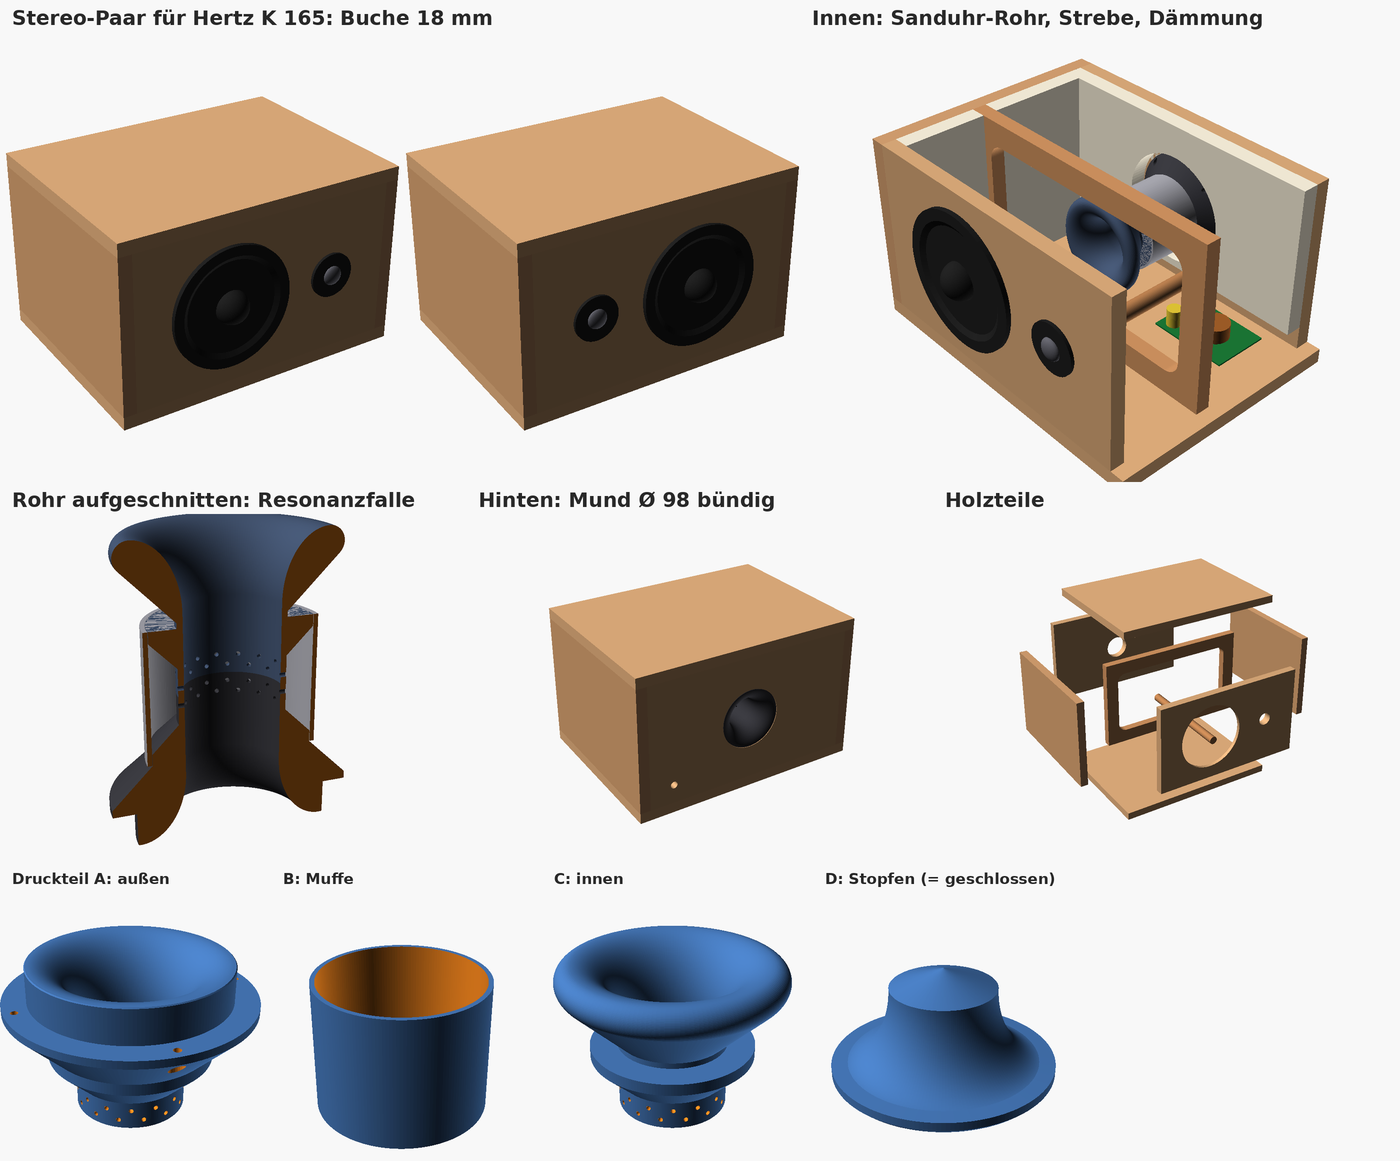
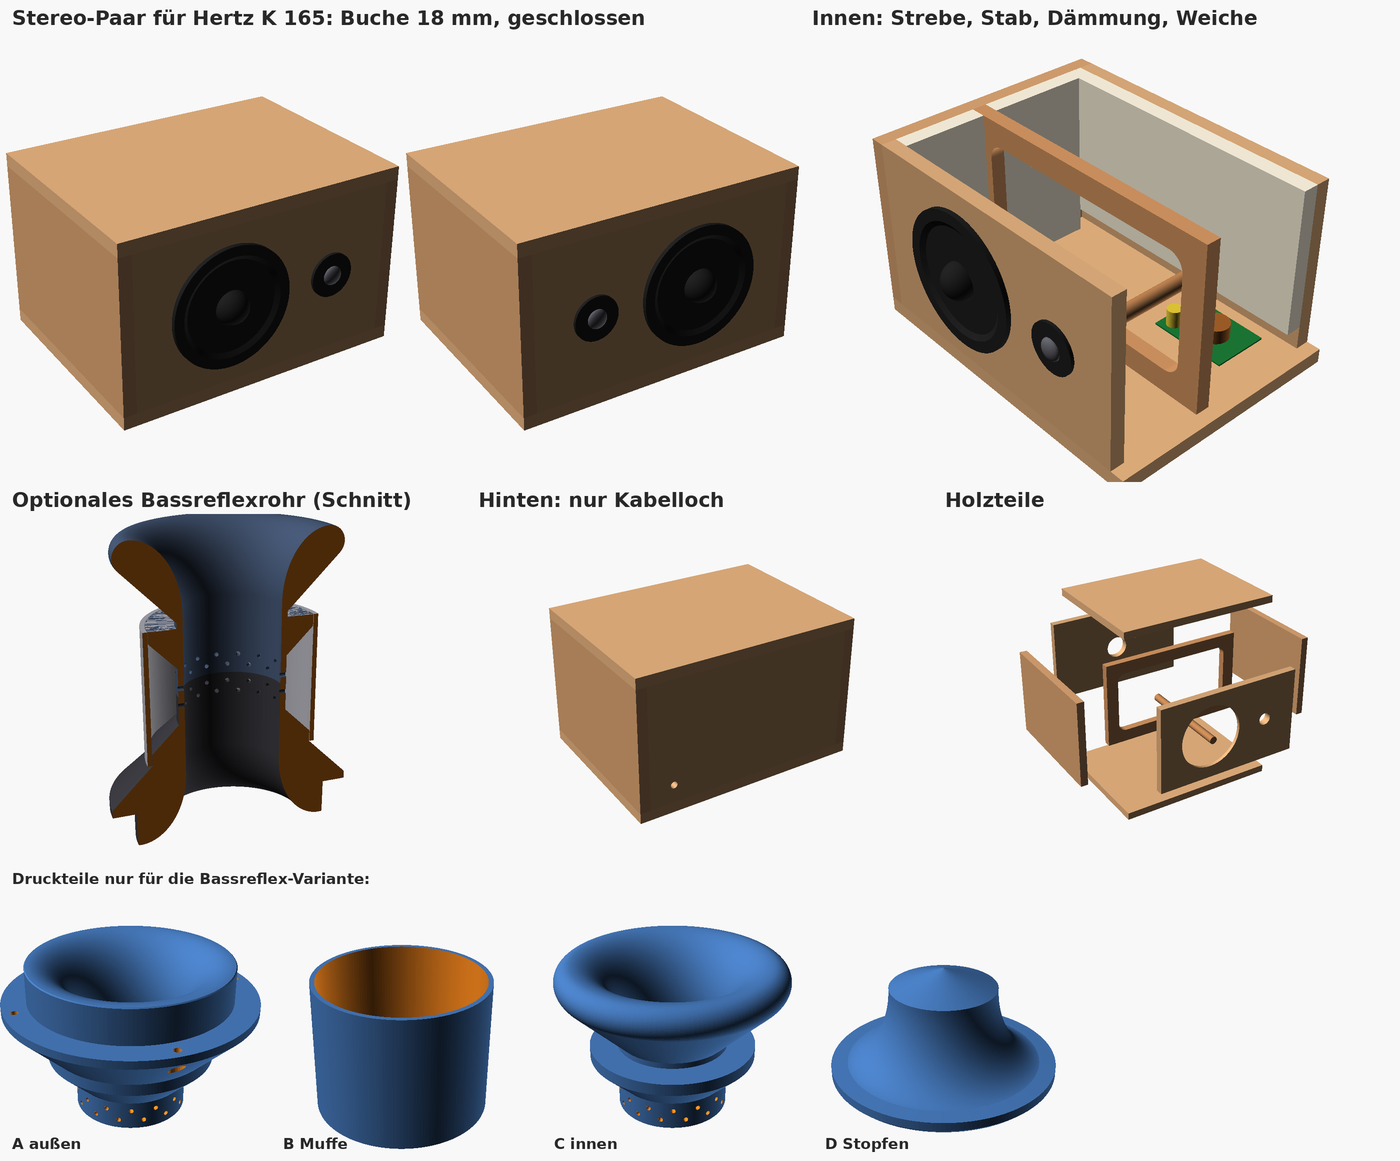
Add step-by-step build guide; default to the sealed build
- BAUPLAN.md: instruction-style guide from shopping list to
  listening test, written for the sealed Hertz K 165 build with
  the owner's damping material
- bauplan.py/bauplan.png: dimensioned workshop drawing (front,
  rear, top section, damping scheme; left box, right mirrored)
- lautsprecherbox.scad: new `bauart` switch, default "geschlossen"
  (no 102 mm rear hole, no port in preview, full rear damping);
  "bassreflex" restores the engineered port
- README: sealed build is the default, port section kept as the
  documented option; placement and leak-test notes updated

Claude-Session: https://claude.ai/code/session_01BoBJRLv7V6suyTzUotHVaK

diff --git a/lautsprecherbox/bauplan.py b/lautsprecherbox/bauplan.py
@@ -1,0 +1,77 @@
+#!/usr/bin/env python3
+"""Erzeugt bauplan.png: bemasste Werkstattzeichnung der Box (Box links;
+rechte Box spiegelbildlich). Alle Masse in mm. Laeuft mit matplotlib."""
+import matplotlib
+matplotlib.use("Agg")
+import matplotlib.pyplot as plt
+from matplotlib.patches import Circle, Rectangle
+
+HOLZ = "#e8d6b8"; KANTE = "#6b5236"; MASS = "#1a4a7a"; ROT = "#b03030"
+
+def dim_h(ax, x0, x1, y, text, oben=True):
+    ax.annotate("", (x0, y), (x1, y), arrowprops=dict(arrowstyle="<->", color=MASS, lw=1.1))
+    ax.text((x0 + x1) / 2, y + (4 if oben else -11), text, ha="center", color=MASS, fontsize=9)
+
+def dim_v(ax, x, y0, y1, text):
+    ax.annotate("", (x, y0), (x, y1), arrowprops=dict(arrowstyle="<->", color=MASS, lw=1.1))
+    ax.text(x + 5, (y0 + y1) / 2, text, va="center", color=MASS, fontsize=9, rotation=90)
+
+def platte(ax, b, h, titel):
+    ax.add_patch(Rectangle((0, 0), b, h, facecolor=HOLZ, edgecolor=KANTE, lw=2))
+    ax.set_title(titel, fontsize=11, weight="bold")
+    ax.set_aspect("equal"); ax.set_xlim(-45, b + 45); ax.set_ylim(-45, h + 60)
+    ax.axis("off")
+
+fig, axs = plt.subplots(2, 2, figsize=(13.5, 9.2), dpi=140)
+fig.suptitle("Bauplan Stereo-Lautsprecher (Hertz K 165, geschlossen) – Box LINKS, Maße in mm.  "
+             "Rechte Box: alle x-Maße spiegeln (x' = 400 − x)", fontsize=12.5, weight="bold")
+
+# --- Front (von aussen) ---
+ax = axs[0][0]; platte(ax, 400, 250, "FRONT von außen (Platte 364 × 214 sitzt zwischen den Wänden)")
+for d, x, name in ((116, 150, "Tieftöner Ø 116\n+ 45°-Fase innen"), (30.2, 300, "Hochtöner Ø 30,2\n(am Becher prüfen!)")):
+    ax.add_patch(Circle((x, 125), d / 2, fill=False, color=KANTE, lw=1.8))
+    ax.plot(x, 125, "+", color=KANTE, ms=10)
+    ax.text(x, 125 - d / 2 - 26, name, ha="center", fontsize=8.5, color=KANTE)
+dim_h(ax, 0, 150, 262, "150"); dim_h(ax, 0, 300, 285, "300")
+dim_v(ax, -28, 0, 125, "125"); dim_h(ax, 0, 400, -30, "400", oben=False)
+
+# --- Rueckwand (von hinten) ---
+ax = axs[0][1]; platte(ax, 400, 250, "RÜCKWAND von hinten gesehen")
+ax.add_patch(Circle((60, 50), 6, fill=False, color=KANTE, lw=1.8)); ax.plot(60, 50, "+", color=KANTE, ms=8)
+ax.text(60, 70, "Kabel Ø 12\n(M12-Verschraubung)", ha="center", fontsize=8.5, color=KANTE)
+ax.add_patch(Circle((200, 125), 51, fill=False, color=ROT, lw=1.3, linestyle="--"))
+ax.text(200, 186, "Ø 102 NICHT bohren!\n(nur für die Bassreflex-Variante)", ha="center", fontsize=8.5, color=ROT)
+dim_h(ax, 0, 60, 262, "60"); dim_v(ax, -28, 0, 50, "50"); dim_h(ax, 0, 400, -30, "400", oben=False)
+
+# --- Draufsicht (Schnitt) ---
+ax = axs[1][0]; platte(ax, 400, 300, "DRAUFSICHT, aufgeschnitten (Front unten)")
+ax.add_patch(Rectangle((18, 18), 364, 264, facecolor="white", edgecolor="none"))
+for r in ((0, 0, 400, 18), (0, 282, 400, 18), (0, 0, 18, 300), (382, 0, 18, 300)):
+    ax.add_patch(Rectangle((r[0], r[1]), r[2], r[3], facecolor=HOLZ, edgecolor=KANTE, lw=1.2))
+ax.add_patch(Rectangle((18, 121), 364, 18, facecolor="#d9b98a", edgecolor=KANTE, lw=1.2, hatch="//"))
+ax.text(200, 148, "Fensterstrebe (Fenster 304 × 154, Ecken R 20)", ha="center", va="center", fontsize=8.5)
+ax.add_patch(Rectangle((245, 18), 20, 264, facecolor="#caa06a", edgecolor=KANTE, lw=1))
+ax.text(255, 230, "Rundstab Ø 20\n(x = 255, z = 70)", ha="center", fontsize=8, rotation=90)
+ax.plot([92, 208], [18, 18], color=ROT, lw=3)
+ax.text(150, 30, "Tieftöner", ha="center", fontsize=8.5, color=ROT)
+dim_v(ax, 428, 0, 121, "121 bis Strebe")
+ax.annotate("", (-28, 0), (-28, 300), arrowprops=dict(arrowstyle="<->", color=MASS, lw=1.1))
+ax.text(-36, 150, "300", va="center", color=MASS, fontsize=9, rotation=90)
+ax.text(200, -32, "Strebe: Vorderkante 121 mm hinter der Außenfront", ha="center", fontsize=9, color=MASS)
+
+# --- Daemmschema (Seitenschnitt) ---
+ax = axs[1][1]; platte(ax, 300, 250, "DÄMMUNG (Seitenschnitt, Front links) – geschlossene Box")
+ax.add_patch(Rectangle((18, 18), 264, 214, facecolor="white", edgecolor="none"))
+for r in ((0, 0, 300, 18), (0, 232, 300, 18), (0, 0, 18, 250), (282, 0, 18, 250)):
+    ax.add_patch(Rectangle((r[0], r[1]), r[2], r[3], facecolor=HOLZ, edgecolor=KANTE, lw=1.2))
+ax.add_patch(Rectangle((121, 18), 18, 214, facecolor="#d9b98a", edgecolor=KANTE, lw=1.2, hatch="//"))
+for r in ((252, 18, 30, 214), (18, 202, 103, 30), (139, 202, 113, 30)):   # Rueckwand + Deckel
+    ax.add_patch(Rectangle((r[0], r[1]), r[2], r[3], facecolor="#f3ead2", edgecolor="#b9a97e", lw=1, hatch="..."))
+ax.add_patch(Rectangle((139, 18), 113, 184, facecolor="none", edgecolor="#b9a97e", lw=1.2, linestyle=":"))
+ax.text(195, 110, "hintere Kammer\nlocker füllen", ha="center", fontsize=8.5, color="#7a6a40")
+ax.text(76, 110, "vordere Kammer:\nWände 2–3 cm belegen,\n≥ 3 cm Luft hinter\nder Membran", ha="center", fontsize=8.5, color="#7a6a40")
+ax.plot([18, 18], [67, 183], color=ROT, lw=3)
+ax.text(28, 125, "Chassis", fontsize=8.5, color=ROT, rotation=90, va="center")
+fig.tight_layout(rect=(0, 0, 1, 0.96))
+fig.savefig("bauplan.png")
+print("bauplan.png geschrieben")

diff --git a/lautsprecherbox/BAUPLAN.md b/lautsprecherbox/BAUPLAN.md
@@ -1,0 +1,128 @@
+# Bauanleitung – Schritt für Schritt
+
+Gebaut werden **2 geschlossene Boxen** (Stereo-Paar, spiegelbildlich) aus Buche 18 mm,
+40 × 30 × 25 cm, für das **Hertz K 165 Fan Edition**. Die Maße stehen im **[Bauplan](bauplan.png)**,
+die 3D-Ansicht in der [vorschau.png](vorschau.png). Rechne mit einem Wochenende plus Öl-Trockenzeit.
+
+![Bauplan](bauplan.png)
+
+## 0. Das brauchst du
+
+**Material** (für beide Boxen):
+
+- [ ] Buche-Multiplex 18 mm, ca. 1,2 m² – Zuschnitt siehe Schritt 1
+- [ ] Rundstab Buche Ø 20 mm, mind. 60 cm (2 × 264 mm)
+- [ ] Holzleim wasserfest (D3), Kartusche Maler-Acryl
+- [ ] Spax 4 × 50 (Gehäuse, ~30 Stk.) und 4 × 25 (Chassis, 16 Stk.), 3-mm-Vorbohrer, Senker
+- [ ] 2 × Kabelverschraubung M12 + Lautsprecherkabel 2 × 1,5 mm²
+- [x] **Dämmwolle – hast du schon** (2 Boxen brauchen zusammen grob 150–200 g)
+- [ ] Dichtband (Moosgummi, 10 × 3 mm) für die Chassis
+- [ ] Hartwachsöl oder Leinölfirnis, Schleifpapier 120/180/240
+- [ ] 8 Filz- oder Gummifüße
+- [x] Hertz K 165 Fan Edition (Tieftöner, Hochtöner, Weichen)
+
+**Werkzeug:** Stichsäge (feines Holzblatt), Bohrmaschine, Forstnerbohrer 20 und 30 mm,
+12-mm-Holzbohrer, Raspel/Schleifrolle, 4–6 Schraubzwingen, Zollstock + Zirkel, Bleistift.
+
+## 1. Zuschnitt besorgen
+
+Im Baumarkt oder Holzhandel sägen lassen (genauer als von Hand), **Kanten rechtwinklig**:
+
+| Stück | Anzahl | Maß (mm) |
+|---|---|---|
+| Deckel / Boden | 4 | 400 × 300 |
+| Seitenwände | 4 | 300 × 214 |
+| Front / Rückwand / Strebe | 6 | 364 × 214 |
+| Rundstab Ø 20 | 2 | 264 lang |
+
+Zu Hause alle Teile mit Bleistift beschriften: **L** oder **R** plus Name (z. B. „L-Front“).
+
+## 2. Anzeichnen
+
+Alle Positionen aus dem [Bauplan](bauplan.png) übertragen. **Wichtig:** Die Maße gelten für die
+**linke** Box – bei der rechten Box alle x-Maße spiegeln (x′ = 400 − x), damit die Hochtöner
+nachher **innen** sitzen. Bohrungszentren körnen (Nagel ansetzen, leicht schlagen).
+
+## 3. Sägen und Bohren (vor dem Verleimen!)
+
+1. **Tieftöner-Ausschnitt Ø 116** (2 × Front): Loch anzeichnen, innen ein 10-mm-Startloch bohren,
+   mit der Stichsäge knapp **innerhalb** der Linie sägen, mit Raspel bis zur Linie. Dann die
+   **45°-Fase** auf der **Innenseite**: mit Raspel oder Fräser die hintere Lochkante rundum ca.
+   10 mm brechen, damit die Membran nach hinten frei atmet.
+   ⚠ Vorher die Schablone aus dem K-165-Karton auflegen – das Chassis muss stramm, aber ohne
+   Gewalt hineingehen.
+2. **Hochtöner Ø 30,2** (2 × Front): Forstner 30 mm bohren, mit Schleifpapier auf Maß weiten.
+   ⚠ Vorher am mitgelieferten Einbaubecher messen.
+3. **Kabelloch Ø 12** (2 × Rückwand): von außen bohren, Position siehe Bauplan (gespiegelt!).
+   **Kein 102-mm-Loch bohren** – die Box bleibt geschlossen.
+4. **Strebenfenster 304 × 154** (2 × Strebe): In jede Ecke ein 40-mm-Loch (Forstner oder
+   Lochsäge), dazwischen mit der Stichsäge gerade sägen, Kanten mit Raspel runden.
+5. **Stab-Markierung**: Position des Rundstabs (x = 255, z = 70, gespiegelt für R) auf den
+   **Innenseiten** von Front und Rückwand anzeichnen.
+
+## 4. Probelauf ohne Leim
+
+Jede Box einmal trocken zusammenstellen (Zwingen): Boden, Seiten, Front, Rückwand, Strebe.
+Prüfen: Alles bündig? Chassis passt? Strebe sitzt 121 mm hinter der Front? Erst weiter, wenn ja.
+
+## 5. Verleimen
+
+Immer: Leim auf beide Flächen, zusammenpressen (Zwingen oder vorgebohrte Spax 4 × 50,
+mind. 3 cm vom Rand), austretenden Leim feucht abwischen, **pro Fuge 30–60 min** gepresst lassen.
+
+1. **Strebe auf den Boden** leimen: Vorderkante 121 mm hinter der Boden-Vorderkante, seitlich 18 mm Abstand (dort kommen die Seiten hin).
+2. **Beide Seiten** an Boden + Strebe.
+3. **Rundstab an die Rückwand**: Stabende auf die Markierung leimen und von außen mit einer Spax 4 × 50 durch die Rückwand sichern (vorbohren). **Kabelverschraubung M12** jetzt einschrauben.
+4. **Rückwand** einsetzen (an Boden, Seiten, Strebe).
+5. **Deckel** auflegen und verleimen – auch auf Strebe und Stab… **Stopp: erst Schritt 6 lesen!** Wer innen bequem arbeiten will, lässt den Deckel noch ab und leimt ihn als letztes Holzteil vor der Front auf.
+
+## 6. Innen abdichten
+
+Alle Innenfugen mit **Acryl** ausziehen (Finger glätten). Geschlossene Boxen leben von
+Luftdichtheit – jede undichte Fuge kostet Bass und zischt.
+
+## 7. Weiche und Verkabelung
+
+1. Die **Hertz-Weiche** auf den Boden schrauben: hinten, nahe der Kabelverschraubung (nicht nur kleben – sie darf nie klappern).
+2. Lautsprecherkabel durch die M12 führen, Verschraubung festziehen (zugdicht = luftdicht).
+3. Kabel an die Weiche, von dort je ein Paar zur Tieftöner- und zur Hochtöner-Öffnung, **15 cm Überlänge** lassen. Kabel alle 10 cm mit Klebepads oder Tackerschlaufe festlegen.
+4. **Polung notieren**: plus = markierte Ader. Beide Boxen exakt gleich!
+
+## 8. Dämmen (dein Dämmmaterial)
+
+Wie im Bauplan rechts unten:
+
+- **Hintere Kammer** (zwischen Strebe und Rückwand): Wände mit 2–3 cm belegen (Sprühkleber
+  oder Tacker), den Rest **locker** füllen – zusammengedrückt wirkt Wolle nicht.
+- **Vordere Kammer**: Deckel, Boden und beide Seitenflächen mit 2–3 cm belegen.
+  **Mindestens 3 cm Luft hinter der Tieftöner-Membran freihalten.**
+- Nichts darf die Membranrückseite oder die Weiche berühren können.
+
+## 9. Front aufleimen
+
+Front einsetzen (Stabende bekommt Leim und drückt gegen die Front), verpressen, Fuge innen
+soweit erreichbar durch die Chassis-Öffnungen mit Acryl nachziehen.
+
+## 10. Schleifen und Ölen
+
+Kanten mit R 2–3 mm brechen, 120 → 180 → 240 schleifen, entstauben. 2–3 × dünn ölen
+(zwischendurch trocknen lassen, mit 240 zwischenschleifen). Buche wird warm honigfarben.
+Füße unten ankleben/anschrauben.
+
+## 11. Chassis einbauen
+
+1. **Dichtband** auf die Auflageringe von Tief- und Hochtöner kleben.
+2. Kabel anschließen (Polung!), Chassis einsetzen, mit Spax 4 × 25 **über Kreuz** anziehen (vorbohren, nicht überdrehen).
+3. **Dichtheitstest:** Tieftöner-Membran langsam und sanft mit beiden Händen eindrücken und halten – der Gegendruck muss stehen bleiben und die Membran nur ganz langsam zurückkriechen. Fällt der Druck sofort ab: Leck suchen (Fugen, M12, Chassisrand).
+
+## 12. Aufstellen und hören
+
+Hochtöner auf Ohrhöhe und **innen** (zur Mitte), Boxen leicht auf den Hörplatz eingedreht,
+Wandabstand unkritisch (geschlossene Box!). Erst leise testen: Kommt der Bass aus beiden
+Boxen gleich stark? Falls dünn/leise im Bass → eine Box ist verpolt.
+
+---
+
+**Später auf Bassreflex umrüsten?** (nur sinnvoll mit einem Hifi-Tieftöner, Qts ≤ 0,45):
+In `lautsprecherbox.scad` `bauart = "bassreflex"` setzen, Ø 102 mittig in die Rückwand bohren,
+die Teile `rohr_aussen/muffe/innen.stl` drucken und einbauen – Details in der [README](README.md).

diff --git a/lautsprecherbox/README.md b/lautsprecherbox/README.md
@@ -14,7 +14,8 @@ und wenig Eigenresonanz ausgelegt ist.
 | **Außenmaße** | 40 cm breit × 30 cm tief × 25 cm hoch |
 | **Innenvolumen** | 20,6 L brutto, **ca. 18,5 L netto** |
 | **Chassis** | **Hertz K 165 Fan Edition**: Tieftöner 165 mm (Aufnahme 116, Tiefe 45 mm) + 24-mm-Hochtöner, 4 Ω, 50 W RMS / 300 W Spitze, 92 dB, Weiche (6 dB/Okt.) liegt bei |
-| **Betrieb mit dem K 165** | **geschlossen**, mit gedrucktem Stopfen D im Rohr (Begründung unten) |
+| **Betrieb mit dem K 165** | **geschlossen** – Rückwand ohne Rohrloch (`bauart = "geschlossen"`, Standard) |
+| **Bauanleitung** | **Schritt für Schritt: [BAUPLAN.md](BAUPLAN.md)** mit bemaßter Zeichnung [bauplan.png](bauplan.png) |
 | **Bassreflex** | **Sanduhr-Rohr** mittig in der Rückwand: Engstelle Ø 50, Münder Ø 98, außen bündig, **44,7 Hz** (Strömungsrechnung) |
 | **Deckel** | geschlossen, ohne Ausschnitt |
 | **Rückwand** | Kabeldurchführung Ø 12 mm (für eine M12-Kabelverschraubung) |
@@ -101,11 +102,12 @@ würde das 45-Hz-Rohr kaum Tiefbass bringen und den Oberbass unpräzise machen. 
 passen die 17,8 L dagegen sehr gut: Einbaugüte um 0,75–0,85, untere Grenze um 80–90 Hz,
 straffer Bass – tiefer kann dieses Chassis auch mit Rohr nicht sauber.
 
-Darum **Druckteil D, der Stopfen** (`rohr_stopfen.stl`): Er folgt der gerechneten Trichterkontur
-mit 0,6 mm Spiel. Mit 1–2 Lagen Filz- oder Moosgummiband umwickelt von außen ins Rohr drücken –
-die überstehende Deckplatte (Ø 104) ist der Griff. Rohr trotzdem einbauen: Du kannst beide
-Varianten anhören, und für einen späteren Hifi-Tieftöner mit Qts ≤ 0,45 ziehst du einfach den
-Stopfen.
+Darum ist im Modell jetzt `bauart = "geschlossen"` der Standard: Die Rückwand bekommt
+**kein** 102-mm-Loch, gedruckt werden muss nichts, und die Dämmung darf die Rückwand komplett
+bedecken. Der gesamte Rohr-Abschnitt unten bleibt für die Bassreflex-Variante erhalten
+(`bauart = "bassreflex"`), z. B. für einen späteren Hifi-Tieftöner mit Qts ≤ 0,45. Wer dann
+beide Varianten vergleichen will, druckt zusätzlich den Stopfen D (`rohr_stopfen.stl`):
+mit Filzband umwickelt verschließt er das Rohr, und die Box läuft wieder geschlossen.
 
 ## Das Bassreflexrohr: strömungsmechanisch ausgelegt
 
@@ -184,9 +186,9 @@ Ausgelegt wird es vom Skript `rohr_aerodynamik.py`:
 8. **Rohr** einbauen wie oben beschrieben (Teil A von innen, Wolle, Muffe, Teil C).
 9. **Ölen** (Hartwachsöl oder Leinölfirnis). Buche wird dadurch warm-honigfarben und dunkelt mit der Zeit nach. Unten Filz- oder Gummifüße anbringen.
 10. **Chassis** mit Dichtband einsetzen und mit Spax 4 × 25 festschrauben (vorbohren). Buche hält Schrauben sehr gut.
-11. **Dichtigkeitstest:** Rohr zuhalten, die Membran vorsichtig eindrücken und kurz halten. Der Gegendruck muss bleiben.
+11. **Dichtigkeitstest:** Die Membran vorsichtig eindrücken und halten. Der Gegendruck muss stehen bleiben (geschlossene Box; bei der Bassreflex-Variante vorher das Rohr zuhalten).
 
-**Aufstellen:** mindestens **15–20 cm Abstand zur Wand** (das Rohr ist hinten), die Hochtöner zeigen zur Mitte.
+**Aufstellen:** Geschlossen ist der Wandabstand unkritisch; die Hochtöner zeigen zur Mitte. (Mit Bassreflexrohr: mindestens 15–20 cm von der Wand.)
 
 ## Offene Punkte
 
@@ -198,7 +200,8 @@ Ausgelegt wird es vom Skript `rohr_aerodynamik.py`:
 
 ## Dateien
 
-- `lautsprecherbox.scad`: parametrisches Modell. `box = "links"` oder `"rechts"`. Ansichten: `zusammenbau`, `paar`, `schnitt`, `explosion`, `rohr_aussen`, `rohr_innen`, `rohr_muffe`, `rohr_schnitt`, `front`, `rueckwand`, `strebe`. Zuschnitte, Volumen, Abstimmung und Moden erscheinen in der Konsole.
+- `BAUPLAN.md` + `bauplan.png` + `bauplan.py`: Schritt-für-Schritt-Anleitung mit bemaßter Zeichnung
+- `lautsprecherbox.scad`: parametrisches Modell. `bauart = "geschlossen"` (Standard) oder `"bassreflex"`; `box = "links"` oder `"rechts"`. Ansichten: `zusammenbau`, `paar`, `schnitt`, `explosion`, `rohr_aussen`, `rohr_innen`, `rohr_muffe`, `rohr_schnitt`, `front`, `rueckwand`, `strebe`. Zuschnitte, Volumen, Abstimmung und Moden erscheinen in der Konsole.
 - `rohr_aerodynamik.py`: Auslegung des Rohrs (Kontur, Strömungsrechnung, Resonanzfalle); schreibt `rohr_profil.scad` und `stroemung.png`
 - `rohr_profil.scad`: berechnete Innenkontur, wird vom Modell eingebunden
 - `rohr_aussen.stl`, `rohr_muffe.stl`, `rohr_innen.stl`: die 3 Rohr-Druckteile (je 2× drucken)
